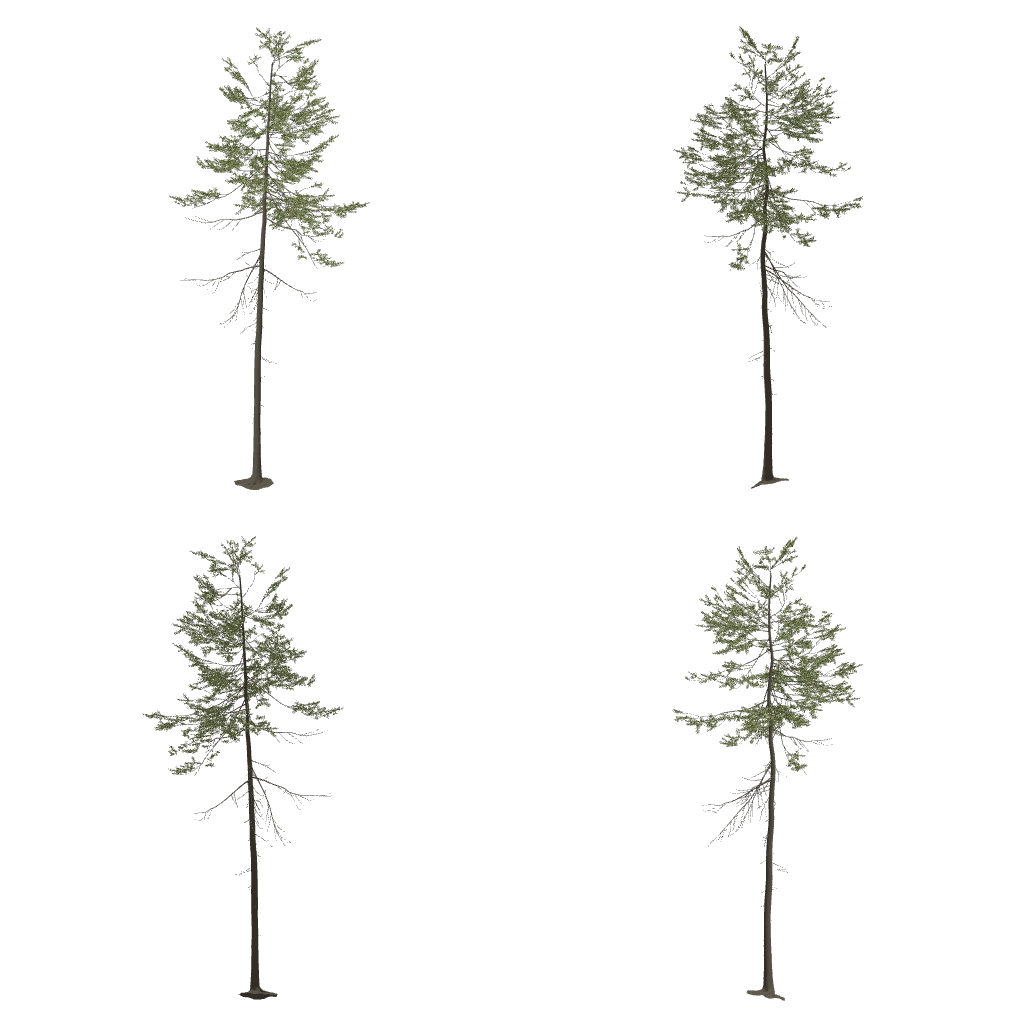
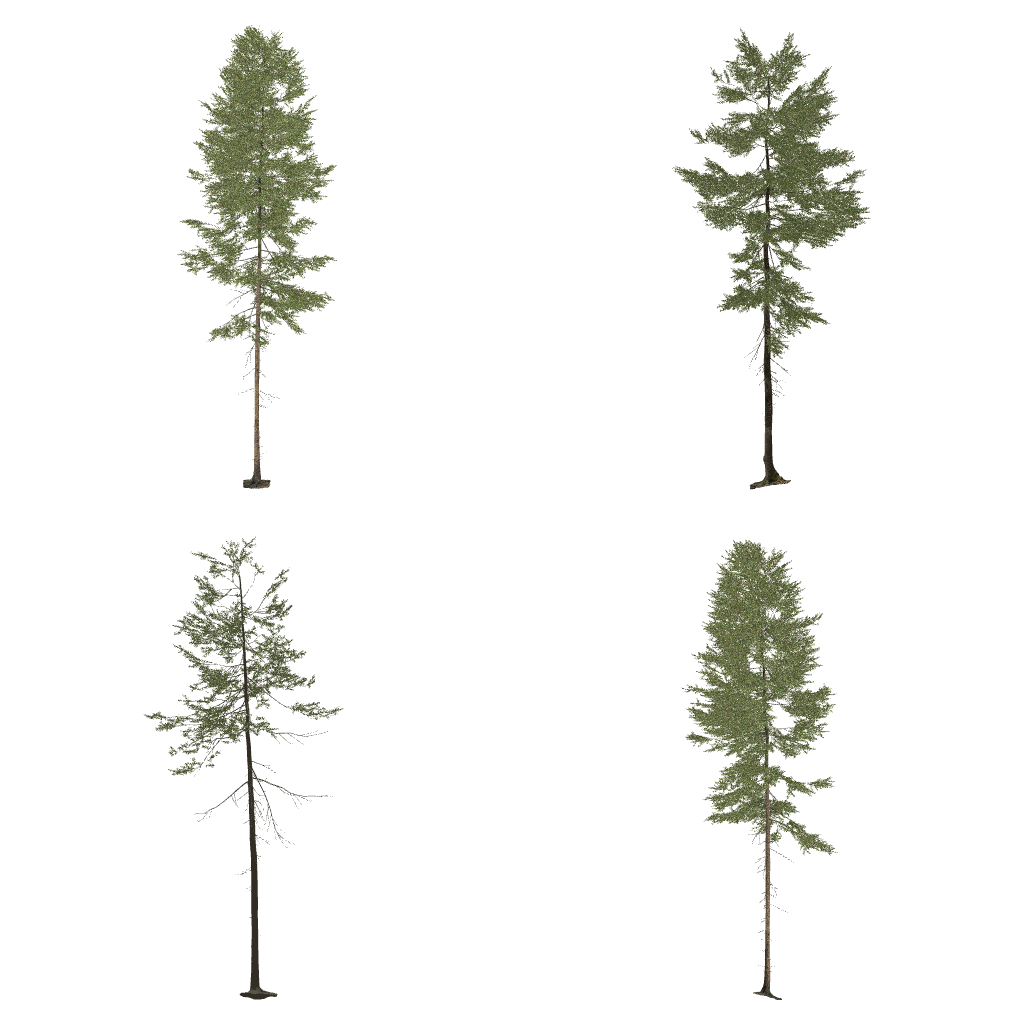
Grow fuller hillside forests with connected ground cover
Bake varied straight-alpha tree cards, anchor billboards at their trunks, and share seeded habitat coverage with the terrain. Correct Compatibility ground colour output and include matched native renders.

diff --git a/tools/bake_foliage_assets.py b/tools/bake_foliage_assets.py
@@ -1,4 +1,4 @@
-"""Bake CC0 branch cards and a four-view distant-tree atlas (Pillow + Godot)."""
+"""Bake CC0 branch cards and a four-variant distant-tree atlas (Pillow + NumPy + Godot)."""
 from pathlib import Path
 import argparse
 import hashlib
@@ -6,6 +6,7 @@ import json
 import os
 import subprocess
 import urllib.request
+import numpy as np
 from PIL import Image
 
 ROOT = Path(__file__).resolve().parents[1]
@@ -31,13 +32,25 @@ def main():
         color.save(ASSETS / f"{name}.png")
     model = CACHE / "models/fir_tree_01_1k.gltf"
     scene = json.loads(model.read_text())
-    scene["scenes"][0]["nodes"] = [2]
-    model.with_name("fir-c.gltf").write_text(json.dumps(scene))
+    scene["scenes"][0]["nodes"] = [0, 1, 2]
+    model.with_name("fir-variants.gltf").write_text(json.dumps(scene))
     subprocess.run([args.godot, "--path", str(ROOT), "--script", "tools/bake_forest_atlas.gd"], cwd=ROOT, check=True)
     with Image.open(ASSETS / "fir_impostor.png") as atlas:
         assert atlas.size == (1024, 1024)
         for x, y in [(0, 0), (512, 0), (0, 512), (512, 512)]:
             assert atlas.crop((x, y, x + 512, y + 512)).getchannel("A").getbbox(), "Every view must contain a tree"
+        pixels = np.asarray(atlas.convert("RGBA")).copy()
+    # MSAA resolves colour against transparent black; cutouts need straight-alpha colour.
+    alpha = pixels[..., 3:4].astype(np.float32) / 255.0
+    rgb = pixels[..., :3].astype(np.float32) / 255.0
+    linear = np.where(rgb <= .04045, rgb / 12.92, ((rgb + .055) / 1.055) ** 2.4)
+    linear = np.clip(linear / np.maximum(alpha, 1 / 255.0), 0, 1)
+    straight = np.where(linear <= .0031308, linear * 12.92, 1.055 * linear ** (1 / 2.4) - .055)
+    partial = (alpha[..., 0] > 0) & (alpha[..., 0] < 1)
+    before = pixels[..., :3][partial].copy()
+    pixels[..., :3][partial] = np.rint(straight[partial] * 255).astype(np.uint8)
+    assert partial.any() and np.mean(pixels[..., :3][partial]) > np.mean(before), "Resolved canopy edges must lose their black fringe"
+    Image.fromarray(pixels, "RGBA").save(ASSETS / "fir_impostor.png")
 
 
 if __name__ == "__main__":

diff --git a/changelog/unreleased/environment-realism-extended.md b/changelog/unreleased/environment-realism-extended.md
@@ -1,6 +1,6 @@
 +++
-title = "A natural coast beyond the battlefield"
-summary = "Distant water continues past the mountains, with irregular bays instead of a straight cutoff beside coastal battlefields."
+title = "Natural coastal scenery and fuller hillside forests"
+summary = "Irregular bays, fuller hillside forests and connected woodland ground cover make the scenery around battles more natural."
 kind = "improved"
 
 [[screenshots]]
@@ -10,6 +10,24 @@ caption = "Before: the ocean ends in a square beside the scenery."
 [[screenshots]]
 file = "coast-after.jpg"
 caption = "After: distant water follows bays around the mountains. Same seed and camera."
+
+[[screenshots]]
+file = "forest-before.jpg"
+caption = "Before: sparse hillside trees and bare ground, matching close camera."
+
+[[screenshots]]
+file = "forest-after.jpg"
+caption = "After: fuller canopies, connected stands and woodland ground cover, matching close camera."
+
+[[screenshots]]
+file = "compat-before.jpg"
+caption = "Compatibility before: linear ground colours were displayed too dark."
+
+[[screenshots]]
+file = "compat-after.jpg"
+caption = "Compatibility after: corrected material output brings ground and foliage into the same palette."
 +++
 
 The ocean keeps detailed waves near the battlefield and uses a coarser surface beyond it.
+
+Hillside woods use varied photographed tree silhouettes and a shared placement/ground-cover mask. Trees rotate around their bases as the camera tilts. Offline edge correction removes the dark fringe from their canopies.

diff --git a/docs/FEATURES.md b/docs/FEATURES.md
@@ -1285,4 +1285,4 @@ Generated towns have distinct garden plots, narrow foundation aprons and paths l
 
 Town entrances blend gravel into asphalt through irregular edges. Local repair patches, staining, aged tile roofs, concrete roof slabs and weathered timber fences use bundled CC0 scans with mipmapped relief; metal fences retain rust and worn paint.
 
-Trees, hedges and shrubs use photographed needle/leaf cards, preserving batched rendering, burning and destruction. Beyond the playable boundary, patchy hillside forests use a four-view prebaked fir atlas and two triangles per tree; slope, height and coast masks keep cliffs and water clear. These scenery-only trees add no combat cover. Setting View distance / detail to Near disables distant forests.
+Trees, hedges and shrubs use photographed needle/leaf cards, preserving batched rendering, burning and destruction. Beyond the playable boundary, patchy hillside forests use a four-variant prebaked fir atlas and two triangles per tree; slope, height and coast masks keep cliffs and water clear. Their trunks stay rooted as the camera tilts, and shared seeded density masks connect the trees with woodland ground cover. These scenery-only trees add no combat cover. Setting View distance / detail to Near disables distant forests.

diff --git a/assets/foliage/LICENSE.md b/assets/foliage/LICENSE.md
@@ -6,7 +6,9 @@ CC0 1.0 assets from [Poly Haven](https://polyhaven.com/license):
 - [Tree Small 02](https://polyhaven.com/a/tree_small_02), Rico Cilliers.
 
 The branch cards are cropped colour/opacity scans. The distant fir atlas is
-four orthographic views of source tree C, baked once with neutral lighting.
+four orthographic variants of source trees A, B and C, normalized to the same
+height and baked once with neutral lighting. MSAA edge colours are unpremultiplied
+in linear space before import so alpha-tested canopies have no baked black fringe.
 `tools/bake_foliage_assets.py --godot <Godot 4.7 console executable>` reproduces
 both from SHA-256-checked sources in `sources.json`. The high-detail source
 model (about 480 MB) is cached only under ignored `build/terrain/foliage-source`;
